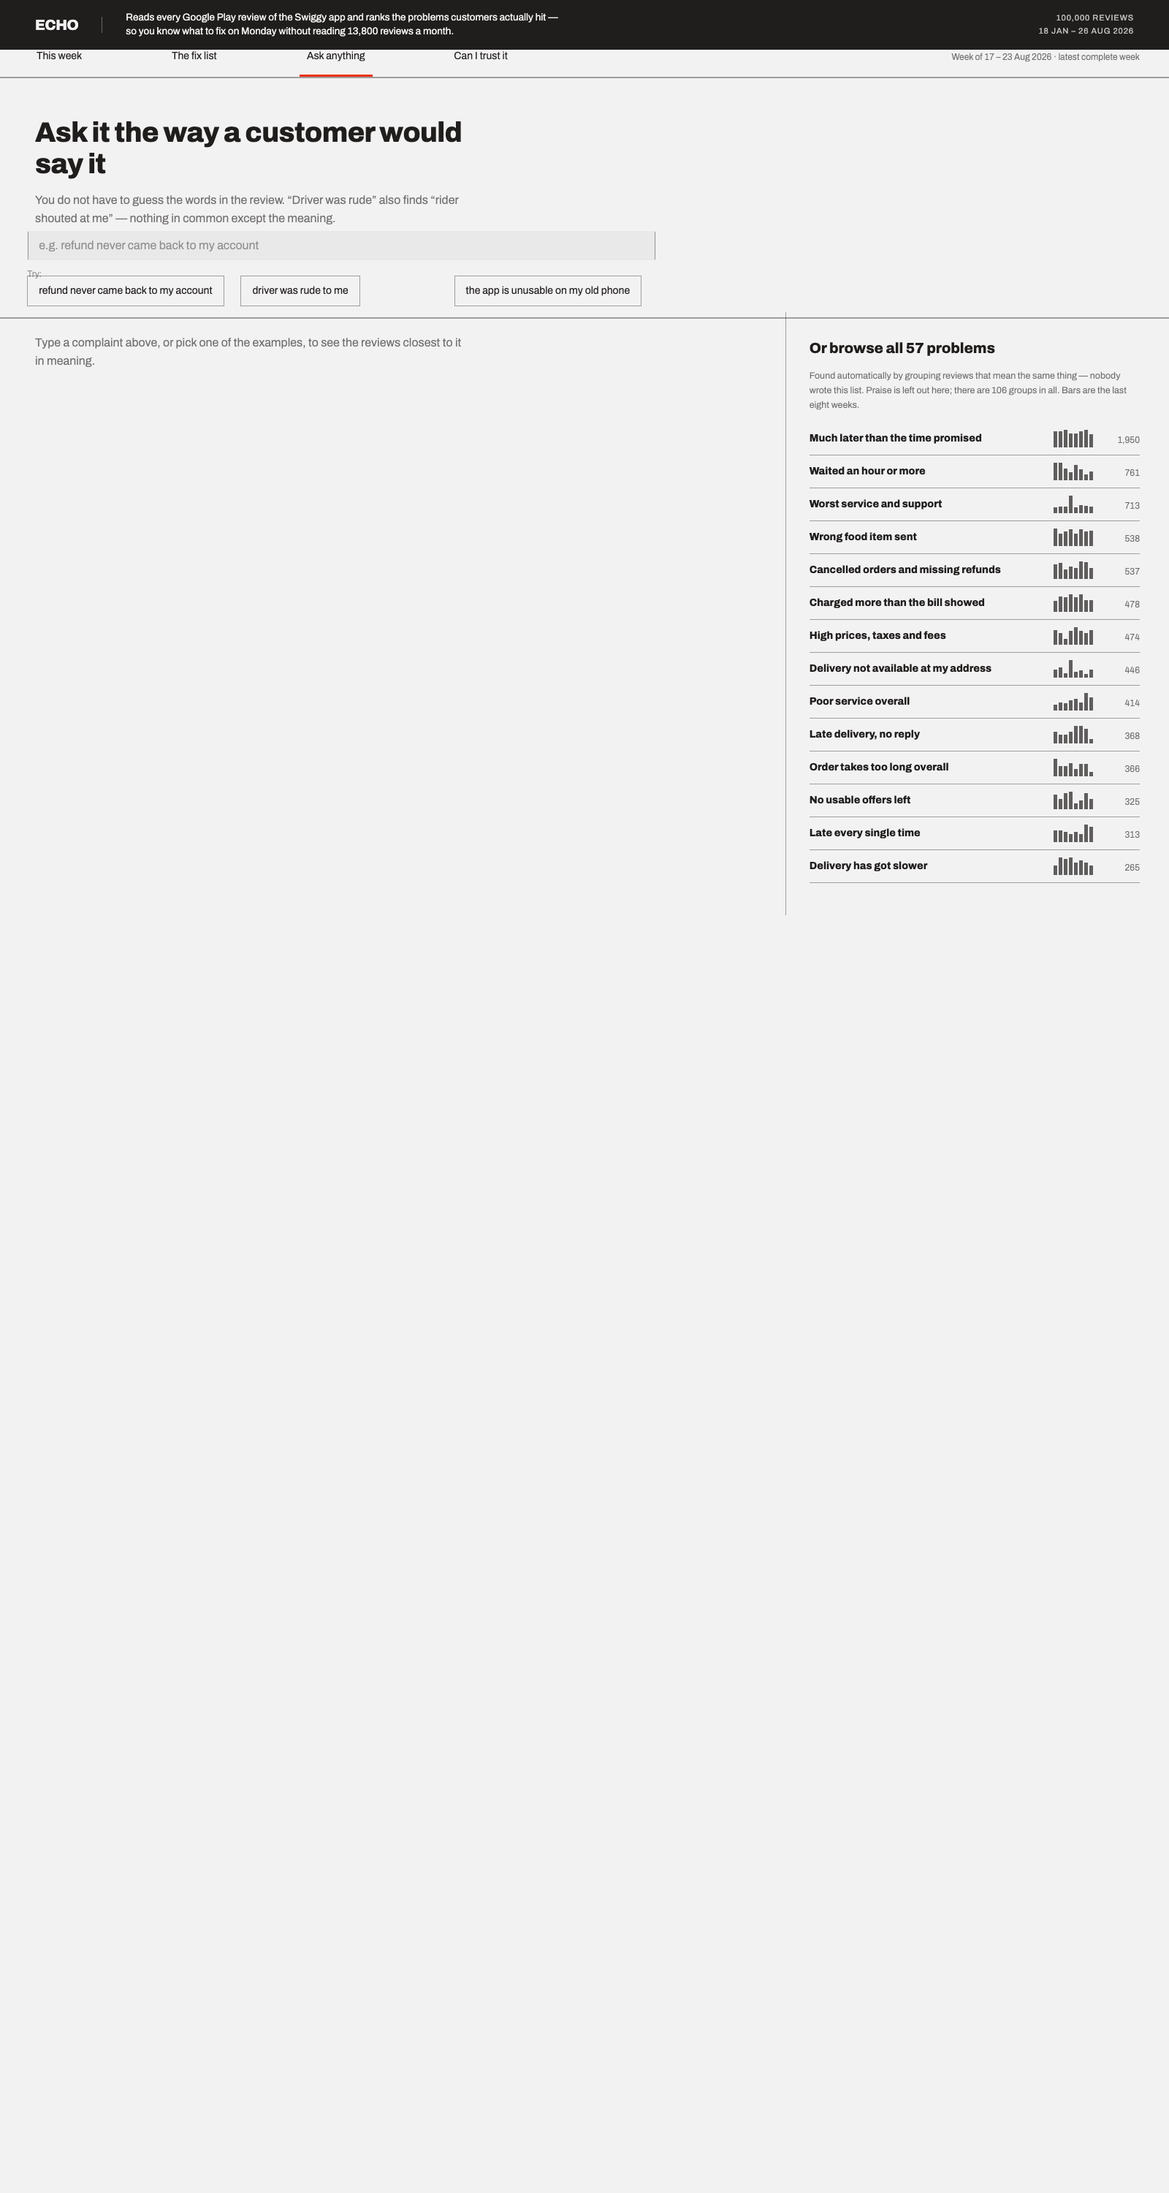
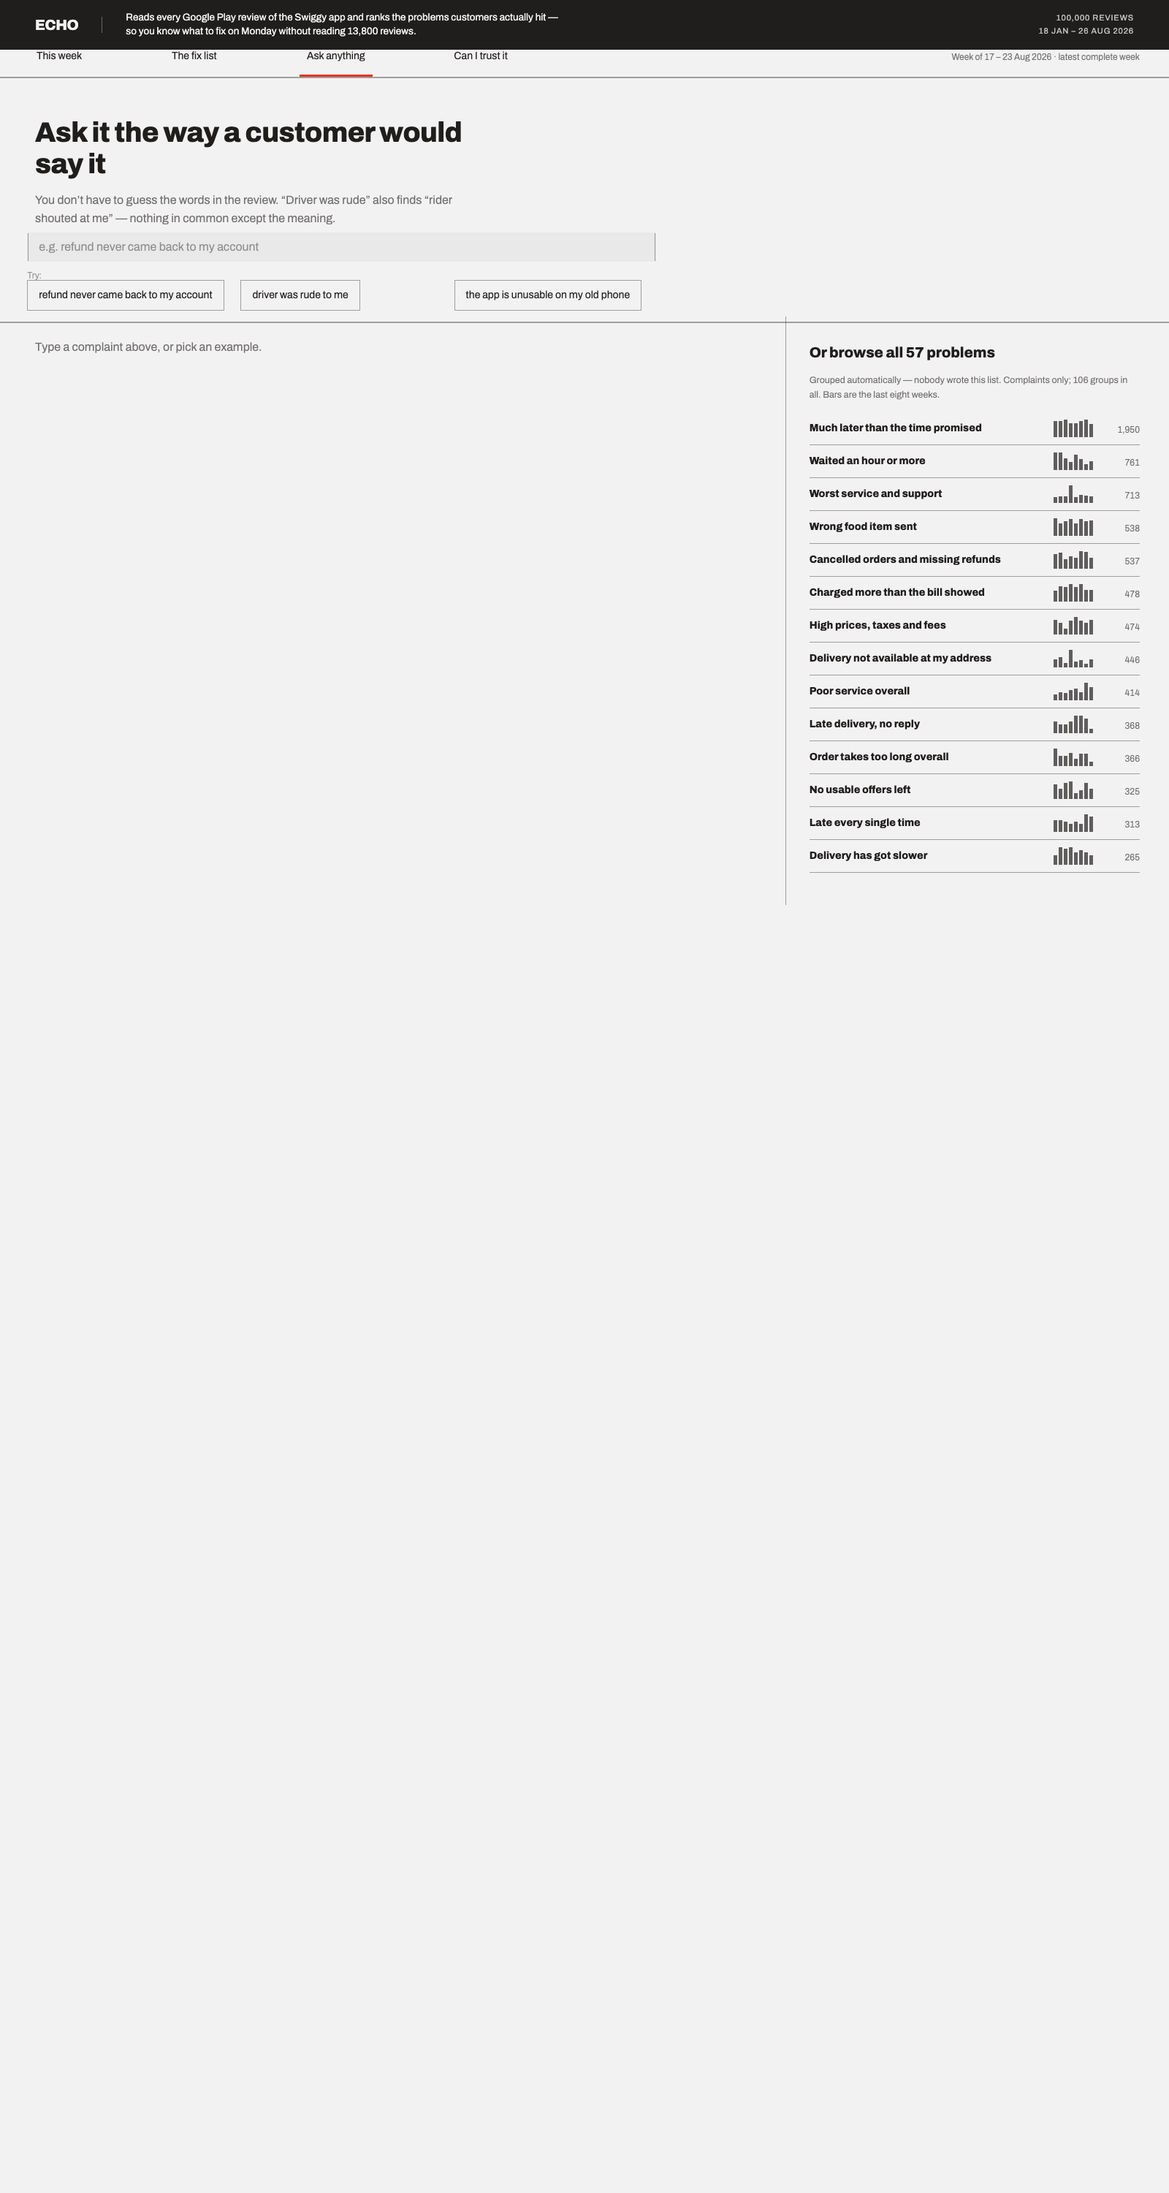
Cut the copy back to the reference's rhythm
The layout matched the reference; the prose did not. Every block had been
padded with a second explanatory sentence — the movers heading carried a
clause about why ten reviews is the floor, the poster restated how
comparison works, the fix-list footnote explained that nothing is
estimated. That is a research log wearing a product's layout.

Measured, per screen, words a reader actually sees:

  This week      311   (reference 395)
  The fix list   317   (reference 413)
  Ask anything   164   (reference 222)
  Can I trust it 383   (reference 338)
  TOTAL        1,175   (reference 1,368)

Lighter than the design it copies on three screens of four. The one that
runs heavier is the accuracy screen, which is where the caveats belong.

Also: "Four things it gets wrong" goes back to three, matching the
reference — the fourth said what card two already says about sample size.
And the hero buttons are wrapped in a keyed container so they sit on the
48px margin instead of hard against the window edge, which is where the
reference leaves them, for the same reason its tab styling never applied.

diff --git a/app/views/this_week.py b/app/views/this_week.py
@@ -54,33 +54,34 @@ def render() -> None:
     # ── verdict and the two numbers ─────────────────────────────────────────
     left, right = st.columns([1, 0.45], gap="small")
     with left:
-        head = (f"{int(wk.unhappy):,} of last week's {int(wk.reviews):,} "
-                f"reviewers were unhappy.")
-        body = (f"The largest single problem was “{clean(top['name'].iloc[0])}”, "
-                f"raised by <b>{int(top.reviews.iloc[0])}</b> of them."
+        head = (f"{int(wk.reviews):,} people reviewed Swiggy last week. "
+                f"{int(wk.unhappy):,} were unhappy.")
+        body = (f"“{clean(top['name'].iloc[0])}” was the biggest single "
+                f"complaint — <b>{int(top.reviews.iloc[0])}</b> of them."
                 if not top.empty else "")
         design.html(f'<div class="pad"><div class="kicker">'
                     f'The week in one sentence</div>'
                     f'<div class="verdict">{head}</div>'
                     f'<p class="lede">{body}</p></div>')
-        a, b, _ = st.columns([1.2, 1.4, 1.1])
-        with a:
-            if st.button("Open the fix list  →", type="primary", key="go_fix"):
-                st.session_state["screen"] = "fix"
-                st.rerun()
-        with b:
-            if st.button("Read the actual reviews", key="go_ask"):
-                st.session_state["screen"] = "ask"
-                st.rerun()
+        with st.container(key="herobtns"):
+            a, b, _ = st.columns([1.3, 1.5, 0.9])
+            with a:
+                if st.button("Open the fix list  →", type="primary",
+                             key="go_fix"):
+                    st.session_state["screen"] = "fix"
+                    st.rerun()
+            with b:
+                if st.button("Read the actual reviews", key="go_ask"):
+                    st.session_state["screen"] = "ask"
+                    st.rerun()
         design.html('<div style="height:30px"></div>')
     with right:
         for number, label in (
             (f"{share:.0f}%",
-             f"of last week's reviews were 1 or 2 stars — "
-             f"{int(wk.unhappy):,} unhappy customers."),
+             f"of last week's reviews were 1 or 2 stars."),
             (f"{float(wk.rating):.1f}",
-             f"average stars last week, against {float(prior):.1f} over the "
-             f"four weeks before it."),
+             f"average stars last week, against {float(prior):.1f} the month "
+             f"before."),
         ):
             design.html(
                 '<div style="padding:24px 32px;'
@@ -109,12 +110,10 @@ def render() -> None:
              ORDER BY rt.strength DESC LIMIT 1""", (MODEL, int(s.theme_id)))
         design.poster(
             kicker="The sharpest jump on record",
-            head=(f"“{clean(s['name'])}” ran at {times:.1f} times its normal "
+            head=(f"“{clean(s['name'])}” hit {times:.1f} times its normal "
                   f"rate in the week of {s.week_start:%d %B}."),
-            body=(f"{s.reviews} reviews that week against about "
-                  f"{s.baseline_mean:.0f} in a normal one, in "
-                  f"{clean(s.category).lower()}. Every problem is compared "
-                  f"against its own history, never against other problems."),
+            body=(f"{s.reviews} reviews that week, against about "
+                  f"{s.baseline_mean:.0f} in a normal one."),
             side_kicker="What one of them said",
             side=(f"“{clean(quote.content.iloc[0], 190)}”"
                   if not quote.empty else ""))
@@ -125,9 +124,8 @@ def render() -> None:
         '<div style="padding:30px 48px 14px;display:flex;align-items:baseline;'
         'gap:16px;flex-wrap:wrap"><h2 style="font-size:25px">What moved last '
         'week</h2><span style="font-size:13px;color:' + design.MUTED + '">'
-        "each problem against its own eight-week average, never against other "
-        "problems. Only problems averaging ten or more reviews a week — below "
-        "that a percentage swing is noise.</span></div>")
+        "each against its own eight-week average · ten reviews a week "
+        "minimum</span></div>")
 
     movers = sql("""
         WITH norm AS (
@@ -157,7 +155,7 @@ def render() -> None:
                 f'<span style="font-size:12px;color:{design.MUTED}">'
                 f'{int(m.reviews)} reviews</span></div>'
                 f'<div class="mover-t">{clean(m.name)}</div>'
-                f'<div class="mover-s">{clean(m.category)} · usually about '
+                f'<div class="mover-s">{clean(m.category)} · usually '
                 f'{float(m.usual):.0f} a week</div></div>')
     design.rule()
 
@@ -183,12 +181,10 @@ def render() -> None:
         design.html(
             '<div style="padding:32px 44px 36px 48px">'
             '<h3 style="font-size:21px;margin-bottom:10px !important">Why a '
-            "keyword report would have missed this</h3>"
+            "keyword report would miss this</h3>"
             '<p class="sub" style="margin-bottom:18px">Customers never use your '
-            "words. These three real reviews share almost nothing on the page, "
-            "and Echo counts all three against one problem — which is why that "
-            f"problem shows {size:,} reviews and not a fraction of it.</p>"
-            f"{chips}</div>")
+            "words. These three share no keyword. Echo files all three under "
+            f"one problem — {size:,} reviews.</p>{chips}</div>")
     with b:
         steps = "".join(f'<div class="step"><b>{i:02d}</b><span>{s}</span></div>'
                         for i, s in enumerate(prose.FIVE_MINUTES, 1))

diff --git a/app/views/trust.py b/app/views/trust.py
@@ -32,24 +32,18 @@ def render() -> None:
         '<div style="padding:34px 48px 26px;max-width:1100px">'
         '<h1 style="font-size:38px;max-width:28ch;margin-bottom:10px !important">'
         "Can you take this into a room and defend it?</h1>"
-        '<p class="sub">For deciding what to look at next, yes. As an exact '
-        "count of affected customers, no — and here is exactly where the seams "
-        "are.</p></div>")
+        '<p class="sub">For ranking what to look at next, yes. As an exact '
+        "count of affected customers, no.</p></div>")
     design.rule()
 
     cards = [
         (f"{best / 10:.0f} in 10", "search results are on topic",
-         f"Of the top ten reviews a search returns, about {best / 10:.0f} are "
-         f"about what you asked. Plain word matching on the same searches "
-         f"manages {words / 10:.1f}."),
+         f"Word matching on the same searches manages {words / 10:.1f}."),
         (f"{audit / 10:.0f} in 10", "reviews sit in a sensible group",
-         f"Judged by hand on {per_model} groupings per method, without being "
-         "shown which method produced each. The rest usually raise two problems "
-         "at once and get filed under the louder one."),
-        ("Matches", "the published research it reproduces",
-         "The language model underneath was rebuilt from scratch and scores "
-         "74.5 on the standard sentence-similarity test, against 74.2 in the "
-         "original paper."),
+         f"Judged by hand on {per_model} groupings per method, blind."),
+        ("Matches", "the research it reproduces",
+         "Rebuilt from scratch: 74.5 on the standard test, against 74.2 in "
+         "the paper."),
     ]
     for i, (col, (number, label, body)) in enumerate(zip(st.columns(3), cards)):
         with col:
@@ -68,19 +62,11 @@ def render() -> None:
     with a:
         wrong = [
             ("Two complaints in one review",
-             "Cold food <i>and</i> a rude rider — only the louder one is "
-             "counted."),
+             "Cold food <i>and</i> a rude rider — only the louder one counts."),
             ("Hindi and Hinglish",
-             "About 4 in 100 reviews. The system sees that they look alike but "
-             "not what they say, so it can group them by language rather than "
-             "by subject."),
+             "About 4 in 100. Grouped by language, not by subject."),
             ("Reviews with no detail",
-             "About 1 in 5. “Good” and “worst” form some of the largest "
-             "groups — real, and nothing anyone can act on."),
-            ("How much was checked",
-             f"26 searches and {per_model} groupings per method. Enough to "
-             "separate methods that clearly differ, not enough to separate the "
-             "close ones."),
+             "About 1 in 5. “Good” and “worst” — real, and nothing to act on."),
         ]
         cards2 = "".join(
             f'<div class="evi"><div style="font-weight:800;font-size:15px">{t}'
@@ -88,7 +74,7 @@ def render() -> None:
             f'line-height:1.5">{d}</div></div>' for t, d in wrong)
         design.html('<div style="padding:30px 44px 36px 48px">'
                     '<h3 style="font-size:21px;margin-bottom:14px !important">'
-                    f"Four things it gets wrong</h3>{cards2}</div>")
+                    f"Three things it gets wrong</h3>{cards2}</div>")
     with b:
         design.html(
             f'<div style="padding:30px 48px 6px 44px;border-left:1px solid '
@@ -96,13 +82,13 @@ def render() -> None:
             'margin-bottom:12px !important">What happens to one review</h3>'
             "</div>")
         steps = [
-            "It is pulled from Google Play and stored.",
-            "It is turned into numbers standing for its meaning, so reviews "
-            "saying the same thing in different words end up near each other.",
-            "Reviews sitting close together become one problem, named from the "
-            "words that make that group distinctive.",
-            "Each problem gets a weekly count, and an alert fires when a week "
-            "runs far above that problem's own normal.",
+            "Pulled from Google Play and stored.",
+            "Turned into numbers standing for its meaning, so reviews saying "
+            "the same thing in different words land near each other.",
+            "Reviews sitting close together become one problem, named from "
+            "what makes that group distinctive.",
+            "Each problem gets a weekly count, and an alert when a week runs "
+            "far above its own normal.",
         ]
         design.html(
             '<div style="padding:0 48px 20px 44px">'
@@ -130,9 +116,8 @@ def render() -> None:
                 '<h3 style="font-size:17px;margin-bottom:6px !important">Groups '
                 "kept off the other screens</h3>"
                 f'<p style="font-size:12.5px;color:{design.MUTED};'
-                'margin:0 0 14px">Real groupings that no team can act on — '
-                "reviews grouped by the language they are written in, or angry "
-                f"without saying why. They still count in every total.</p>{bars}"
+                'margin:0 0 14px">Real groups no team can act on. They still '
+                f"count in every total.</p>{bars}"
                 "</div>")
 
     # A keyed container, not a markdown <div>: Streamlit closes a hand-written

diff --git a/app/views/fix_list.py b/app/views/fix_list.py
@@ -48,10 +48,9 @@ def render() -> None:
         '<div style="padding:32px 48px 14px">'
         '<h1 style="font-size:38px;margin-bottom:8px !important">The fix '
         "list</h1>"
-        f'<p class="sub">Every problem customers raised in the last '
-        f"{WEEKS_ON_FIX_LIST} weeks, ranked by how many people hit it, how "
-        "badly they rated it, and whether it is growing. Click a row for the "
-        "reviews behind it.</p></div>")
+        f'<p class="sub">Every problem from the last {WEEKS_ON_FIX_LIST} '
+        "weeks, ranked by how many people hit it. Click a row for the reviews "
+        "behind it.</p></div>")
     with st.container(key="chips"):
         cols = st.columns([1] * len(areas) + [max(1, 8 - len(areas))])
         for col, name in zip(cols, areas):
@@ -126,18 +125,16 @@ def render() -> None:
                     design.html(
                         f'<div class="{cls}" style="font-size:18px;'
                         f'text-align:right">{move}</div>'
-                        '<div class="rlab" style="text-align:right">vs the '
-                        "eight weeks before</div>"
+                        '<div class="rlab" style="text-align:right">vs 8 '
+                        "weeks before</div>"
                         '<div style="display:flex;justify-content:flex-end;'
                         'margin-top:4px">'
                         + design.spark(weeks, width=6) + "</div>")
 
         design.html(
             f'<div style="padding:16px 48px;font-size:12px;color:{design.FAINT}">'
-            "“vs the eight weeks before” compares this window against the same "
-            "problem over the window before it. Nothing on this row is "
-            "estimated — counts, ratings and quotes all come from the reviews."
-            "</div>")
+            "“vs the eight weeks before” is each problem against its own "
+            "previous window.</div>")
 
     # ── the evidence rail ───────────────────────────────────────────────────
     with evidence:

diff --git a/app/views/ask.py b/app/views/ask.py
@@ -42,7 +42,7 @@ def render() -> None:
         '<div style="padding:34px 48px 6px">'
         '<h1 style="font-size:38px;max-width:26ch;margin-bottom:10px !important">'
         "Ask it the way a customer would say it</h1>"
-        '<p class="sub">You do not have to guess the words in the review. '
+        '<p class="sub">You don’t have to guess the words in the review. '
         "“Driver was rude” also finds “rider shouted at me” — nothing in common "
         "except the meaning.</p></div>")
 
@@ -71,8 +71,7 @@ def render() -> None:
         if not query:
             design.html(
                 '<div style="padding:30px 40px 44px 48px"><p class="sub">'
-                "Type a complaint above, or pick one of the examples, to see "
-                "the reviews closest to it in meaning.</p></div>")
+                "Type a complaint above, or pick an example.</p></div>")
         else:
             shared.get_search()
             from src.search.query import search
@@ -149,7 +148,6 @@ def render() -> None:
             f'<h3 style="font-size:20px;margin-bottom:6px !important">Or browse '
             f"all {total} problems</h3>"
             f'<p style="font-size:12.5px;color:{design.MUTED};margin:0 0 14px">'
-            "Found automatically by grouping reviews that mean the same thing — "
-            "nobody wrote this list. Praise is left out here; there are 106 "
-            f"groups in all. Bars are the last eight weeks.</p>{rows}"
+            "Grouped automatically — nobody wrote this list. Complaints only; "
+            f"106 groups in all. Bars are the last eight weeks.</p>{rows}"
             "</div>")

diff --git a/app/prose.py b/app/prose.py
@@ -13,7 +13,7 @@ from shared import week_start
 
 ONE_LINER = ("Reads every Google Play review of the Swiggy app and ranks the "
              "problems customers actually hit — so you know what to fix on "
-             "Monday without reading 13,800 reviews a month.")
+             "Monday without reading 13,800 reviews.")
 
 
 HEADER_META = "100,000 reviews<br>18 Jan – 26 Aug 2026"
@@ -34,18 +34,13 @@ def dateline() -> str:
 
 SCOPE_FOOTNOTES = [
     "<b>Scope:</b> Google Play only, 18 Jan – 26 Aug 2026, 100,000 reviews.",
-    "<b>Reviewers skew angry</b> — these counts measure noise, not how many "
-    "customers were affected.",
+    "<b>Reviewers skew angry</b> — counts measure noise, not affected customers.",
     "<b>Portfolio project</b> on public data. Not an internal Swiggy tool.",
 ]
 
 FIVE_MINUTES = [
-    "Walk into standup with the top three problems and the review count behind "
-    "each one.",
-    "Check whether last sprint's fix moved its number, on that problem's own "
-    "weekly line.",
-    "Pull verbatim quotes for a deck by searching on meaning, not by guessing "
-    "keywords.",
-    "Find out a problem has spiked from this screen, rather than from the store "
-    "rating a month later.",
+    "Take the top three problems into standup, with the counts behind them.",
+    "Check whether last sprint's fix moved its weekly line.",
+    "Pull verbatim quotes for a deck by searching on meaning.",
+    "Hear about a spike here, not from the store rating a month later.",
 ]

diff --git a/app/design.py b/app/design.py
@@ -146,6 +146,9 @@ CSS = f"""
   .st-key-searchbox {{ padding-top:16px; }}
   .st-key-searchbox .stButton {{ margin-top:10px; }}
   .st-key-tech {{ padding:0 48px 44px; }}
+  /* The reference leaves its hero buttons hard against the window edge,
+     because a markdown <div> cannot wrap them. A keyed container can. */
+  .st-key-herobtns {{ padding:0 48px; }}
   .stTextInput input {{ background:{SURFACE}; border:1px solid {DIVIDER};
       font-size:16px; color:{INK}; min-height:46px; padding:11px 14px; }}
   .stTextInput input:focus {{ border-color:{ACCENT}; box-shadow:none; }}
